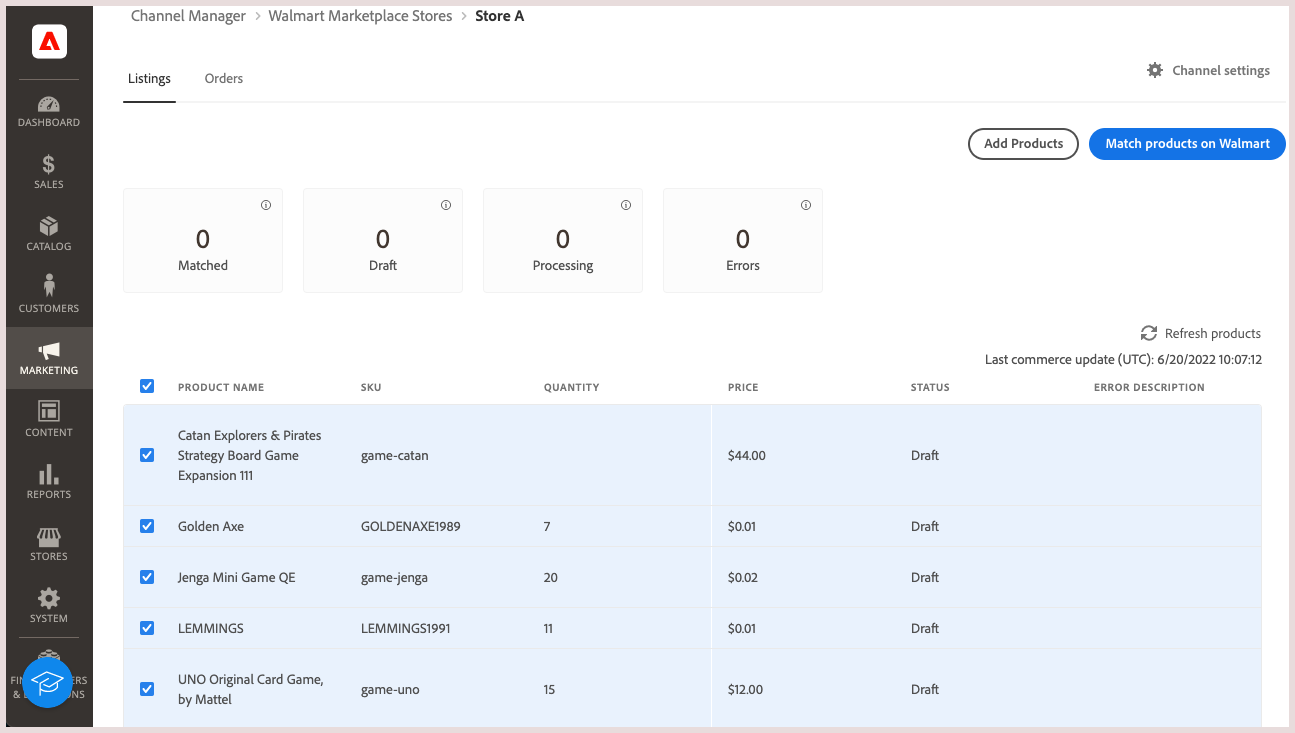
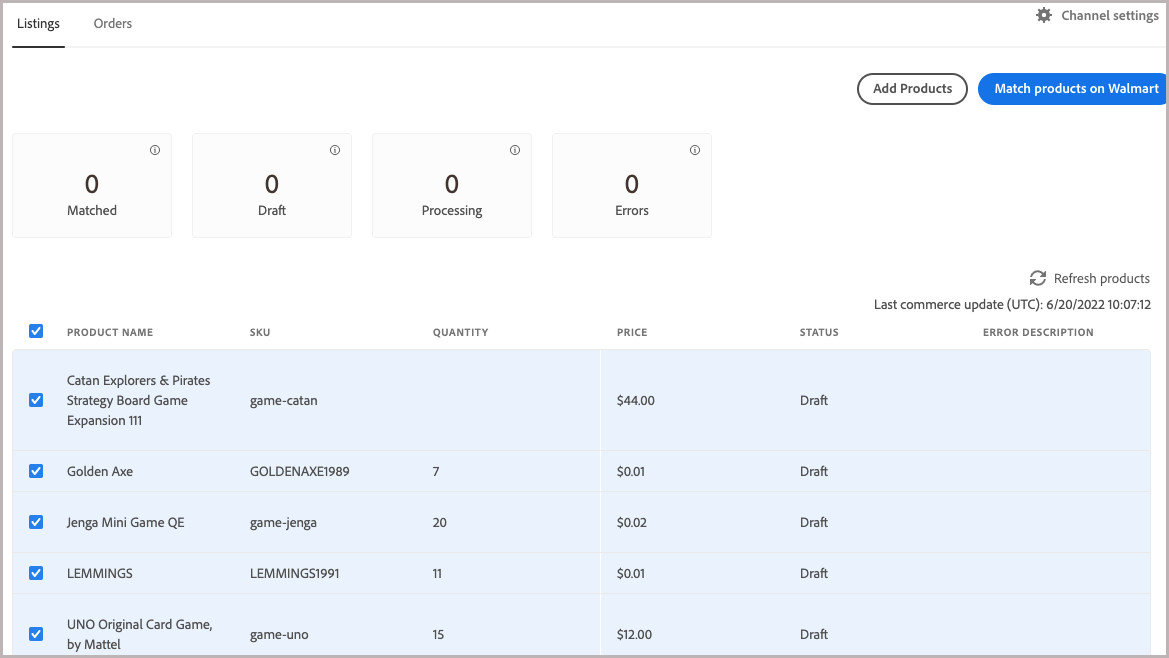
- Update complete store setup topic per feedback - Cropped screen captures for better display

diff --git a/help/channel-manager/connect-marketplace.md b/help/channel-manager/connect-marketplace.md
@@ -3,19 +3,19 @@ title: Connect sales channel to [!DNL Walmart Marketplace]
 description: Configure the sales channel and connect to Walmart Marketplace.
 exl-id: 8c78c582-7b57-4f73-894e-134ba0ba3640
 ---
-# Connect sales channel to [!DNL Walmart Marketplace]
+# Connect [!DNL Channel Manager] to [!DNL Walmart Marketplace]
 
-After installing Channel Manager on your [!DNL Commerce] instance, connect a [!DNL Commerce] store to [!DNL Walmart Marketplace].
-
->[!NOTE]
->
->Channel Manager requires a one-to-one connection between a Walmart account and a Commerce store view. You cannot connect the same store view to multiple Walmart accounts.
+After installing Channel Manager on your [!DNL Commerce] instance, create a sales channel in Channel Manager and configure the credentials to connect [!DNL Channel Manager] to [!DNL Walmart Marketplace].
 
 1. [Create the sales channel](#create-the-sales-channel) by selecting the Commerce store for product listings.
 
 1. [Connect the channel to [!DNL Walmart Marketplace] by adding [!UICONTROL Walmart API credentials]](#connect-the-channel-to-walmart-marketplace).
 
 1. [Complete sales channel setup](#complete-store-setup) to manage listings, inventory, pricing, and orders for your [!DNL Walmart Marketplace] product assortment.
+
+>[!NOTE]
+>
+>Channel Manager requires a one-to-one connection between a Walmart account and a Commerce store view. You cannot connect the same store view to multiple Walmart accounts.
 
 ## Create the sales channel
 
@@ -37,7 +37,7 @@ After installing Channel Manager on your [!DNL Commerce] instance, connect a [!D
 
    - Enter a unique **[!UICONTROL store name]**.
 
-   - Select the **[!UICONTROL Adobe Commerce site]** for product listings.
+   - Select the **[!UICONTROL Adobe Commerce site]** for product listings and order processing.
 
    - Add an **[!UICONTROL email address]** to receive service notifications related to [!DNL Channel Manager].
 

diff --git a/help/channel-manager/settings-overview.md b/help/channel-manager/settings-overview.md
@@ -10,7 +10,7 @@ Sales channel settings enable communication and data synchronization between [!D
 
 In [!DNL Channel Manager], you configure some sales channels settings during the onboarding process. After onboarding, you can view and manage the configuration by selecting **[!UICONTROL Channel Settings]** from the [!UICONTROL Listings] and [!UICONTROL Orders] dashboards.
 
-* **Walmart connection**–During the [!DNL Channel Manager] onboarding process, you provide [API credentials](walmart-requirements.md#generate-a-walmart-marketplace-production-api-key) from your [!DNL Walmart Marketplace] Seller account to connect [!DNL Commerce] to [!DNL Walmart Marketplace] for communication and data synchronization. If needed, you can update these credentials from the *Channel Settings* page.
+* **[Walmart connection](manage-wmt-connection.md)**–During the [!DNL Channel Manager] onboarding process, you provide [API credentials](walmart-requirements.md#generate-a-walmart-marketplace-production-api-key) from your [!DNL Walmart Marketplace] Seller account to connect [!DNL Commerce] to [!DNL Walmart Marketplace] for communication and data synchronization. If needed, you can update these credentials from the *Channel Settings* page.
 
 * **[Map Unique identifiers](map-catalog-attributes.md)**–Before you connect listings from [!DNL Commerce] to [!DNL Walmart Marketplace], map at least one unique identifier from your [!DNL Commerce] catalog to the corresponding identifier from Walmart. This step is required to match [!DNL Commerce] products to existing [!DNL Walmart] listings and to synchronize product data between [!DNL Commerce] and [!DNL Walmart].
 

diff --git a/help/channel-manager/complete-store-setup.md b/help/channel-manager/complete-store-setup.md
@@ -25,7 +25,7 @@ After you connect a Commerce store to [!DNL Walmart Marketplace], complete store
 
    - [View and manage [!DNL Walmart] orders from the [!DNL Commerce Admin]](manage-orders.md)
 
-After you create the sales channel and match products to [!DNL Walmart Marketplace], you can manage all product listing, inventory, price, order, shipping, and cancellation operations from [!DNL Commerce]. Product and order data is synchronized automatically from [!DNL Commerce] to [!DNL Walmart Marketplace]. To prevent conflicts or discrepancies between [!DNL Commerce] and [!DNL Walmart Marketplace] updates, do not update product or order data for [!DNL Commerce] products from the [!DNL Walmart Marketplace] account. 
+After you create the sales channel and match products to [!DNL Walmart Marketplace], you can manage all product listing, inventory, price, order, shipping, and cancellation operations from [!DNL Commerce]. Product inventory, pricing, and order data is synchronized automatically from [!DNL Commerce] to [!DNL Walmart Marketplace]. To prevent conflicts or discrepancies between [!DNL Commerce] and [!DNL Walmart Marketplace] updates, do not update product or order data for [!DNL Commerce] products from the [!DNL Walmart Marketplace] account. 
 
 >[!IMPORTANT]
 >

diff --git a/help/channel-manager/overview.md b/help/channel-manager/overview.md
@@ -12,7 +12,7 @@ exl-id: 91265973-d2ad-4925-aa10-260d7e186f20
 
 ![[!DNL Channel Manager] extension Admin view](assets/channel-manager-home.png)
 
-[!DNL Channel Manager] supports Adobe Commerce or Magento Open Source merchants who want to sell on [!DNL Walmart Marketplace] by extending the [!DNL Commerce] Admin with capabilities to manage [!DNL Walmart Marketplace] sales, inventory, and product pricing seamlessly from the Commerce environment. 
+[!DNL Channel Manager] supports Adobe Commerce or Magento Open Source merchants who want to sell on [!DNL Walmart Marketplace] by extending the [!DNL Commerce] Admin. With [!DNL Channel Manager] installed, store administrators and operations staff can manage [!DNL Walmart Marketplace] sales, inventory, and product pricing seamlessly from the Commerce environment. 
 
 The extended Admin streamlines operations because merchants can use the same workflows and processes to manage sales from both Commerce storefronts and the Walmart Marketplace.
 

diff --git a/help/channel-manager/walmart-requirements.md b/help/channel-manager/walmart-requirements.md
@@ -56,5 +56,5 @@ When you connect products to the marketplace, listing availability depends on th
 
 >[!IMPORTANT]
 >
->After [!DNL Channel Manager] is installed and configured, all inventory, price, order updates are synchronized automatically. Do not connect Channel Manager to a live Walmart Marketplace store until you have disabled any other integrations that update the product and order data, and you are ready for Commerce updates to be synchronized to [!DNL Walmart Marketplace].
+>After [!DNL Channel Manager] is installed and configured, all inventory, price, and order updates are synchronized automatically. Do not connect [!DNL Channel Manager] to a live Walmart Marketplace store until you have disabled any other integrations that update the product and order data, and you are ready for [!DNL Commerce] updates to be synchronized to [!DNL Walmart Marketplace].
 

diff --git a/help/channel-manager/map-catalog-attributes.md b/help/channel-manager/map-catalog-attributes.md
@@ -33,6 +33,7 @@ If your catalog does not have a matching attribute, [add or convert an existing 
      The following example maps the [!UICONTROL Walmart Marketplace UPC] attribute to the UPC attribute in the product catalog.  
 
     ![Map attributes for product match criteria](assets/products-map-attributes-for-match.png)
+    
 
    - Select **[!UICONTROL Save]**.
 
